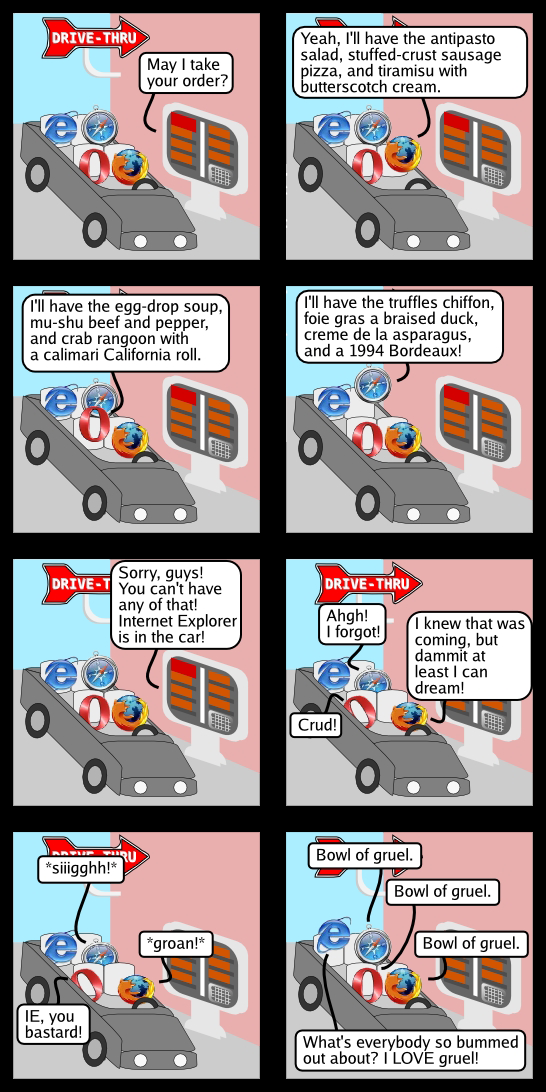
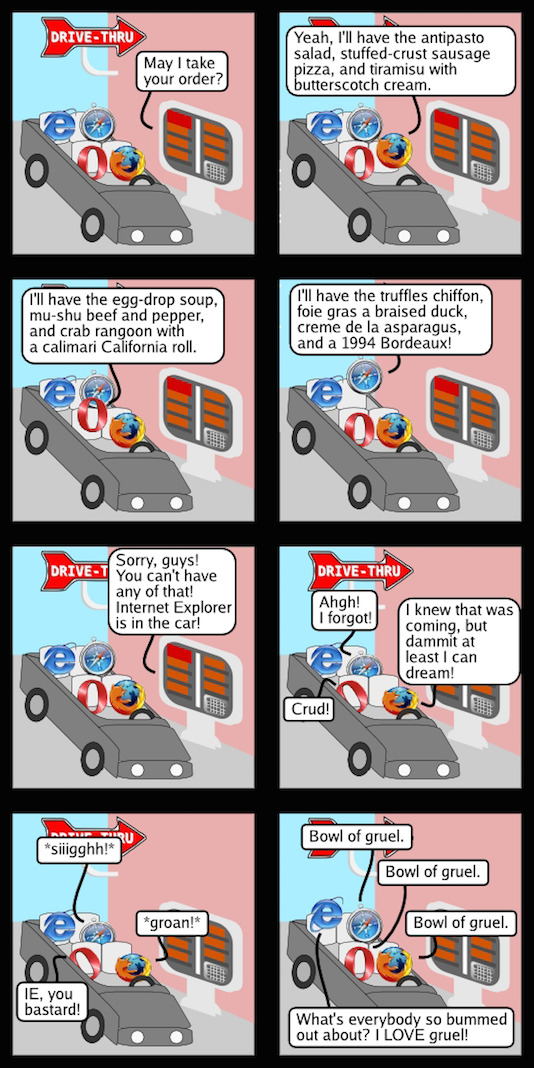
Added link to '40 maps that explain the Internet', sourced 'Four browsers' and re-sized image.

diff --git a/week-01/internet-and-web.html b/week-01/internet-and-web.html
@@ -21,6 +21,7 @@
           <li>Shared mainframe resources</li>
           <li>Development of communication protocols (TCP/IP)</li>
           <li>Gave way to <a href="http://nsf.gov/about/history/nsf0050/internet/launch.htm">NSFNet</a> in 1980s</li>
+          <li>For more, see: <a href="http://www.vox.com/a/internet-maps">Vox: 40 maps that explain the internet</a></li>
         </ul>
       </section>
 
@@ -119,6 +120,7 @@
         <h2>Four browsers go to the drive-thru...</h2>
 
         <img src="img/four-browsers.png" alt="Four browsers..." />
+        <p><small><a href="http://penguinpetes.com/b2evo/index.php?p=583">Source</a></small></p>
       </section>
 
       <section>
